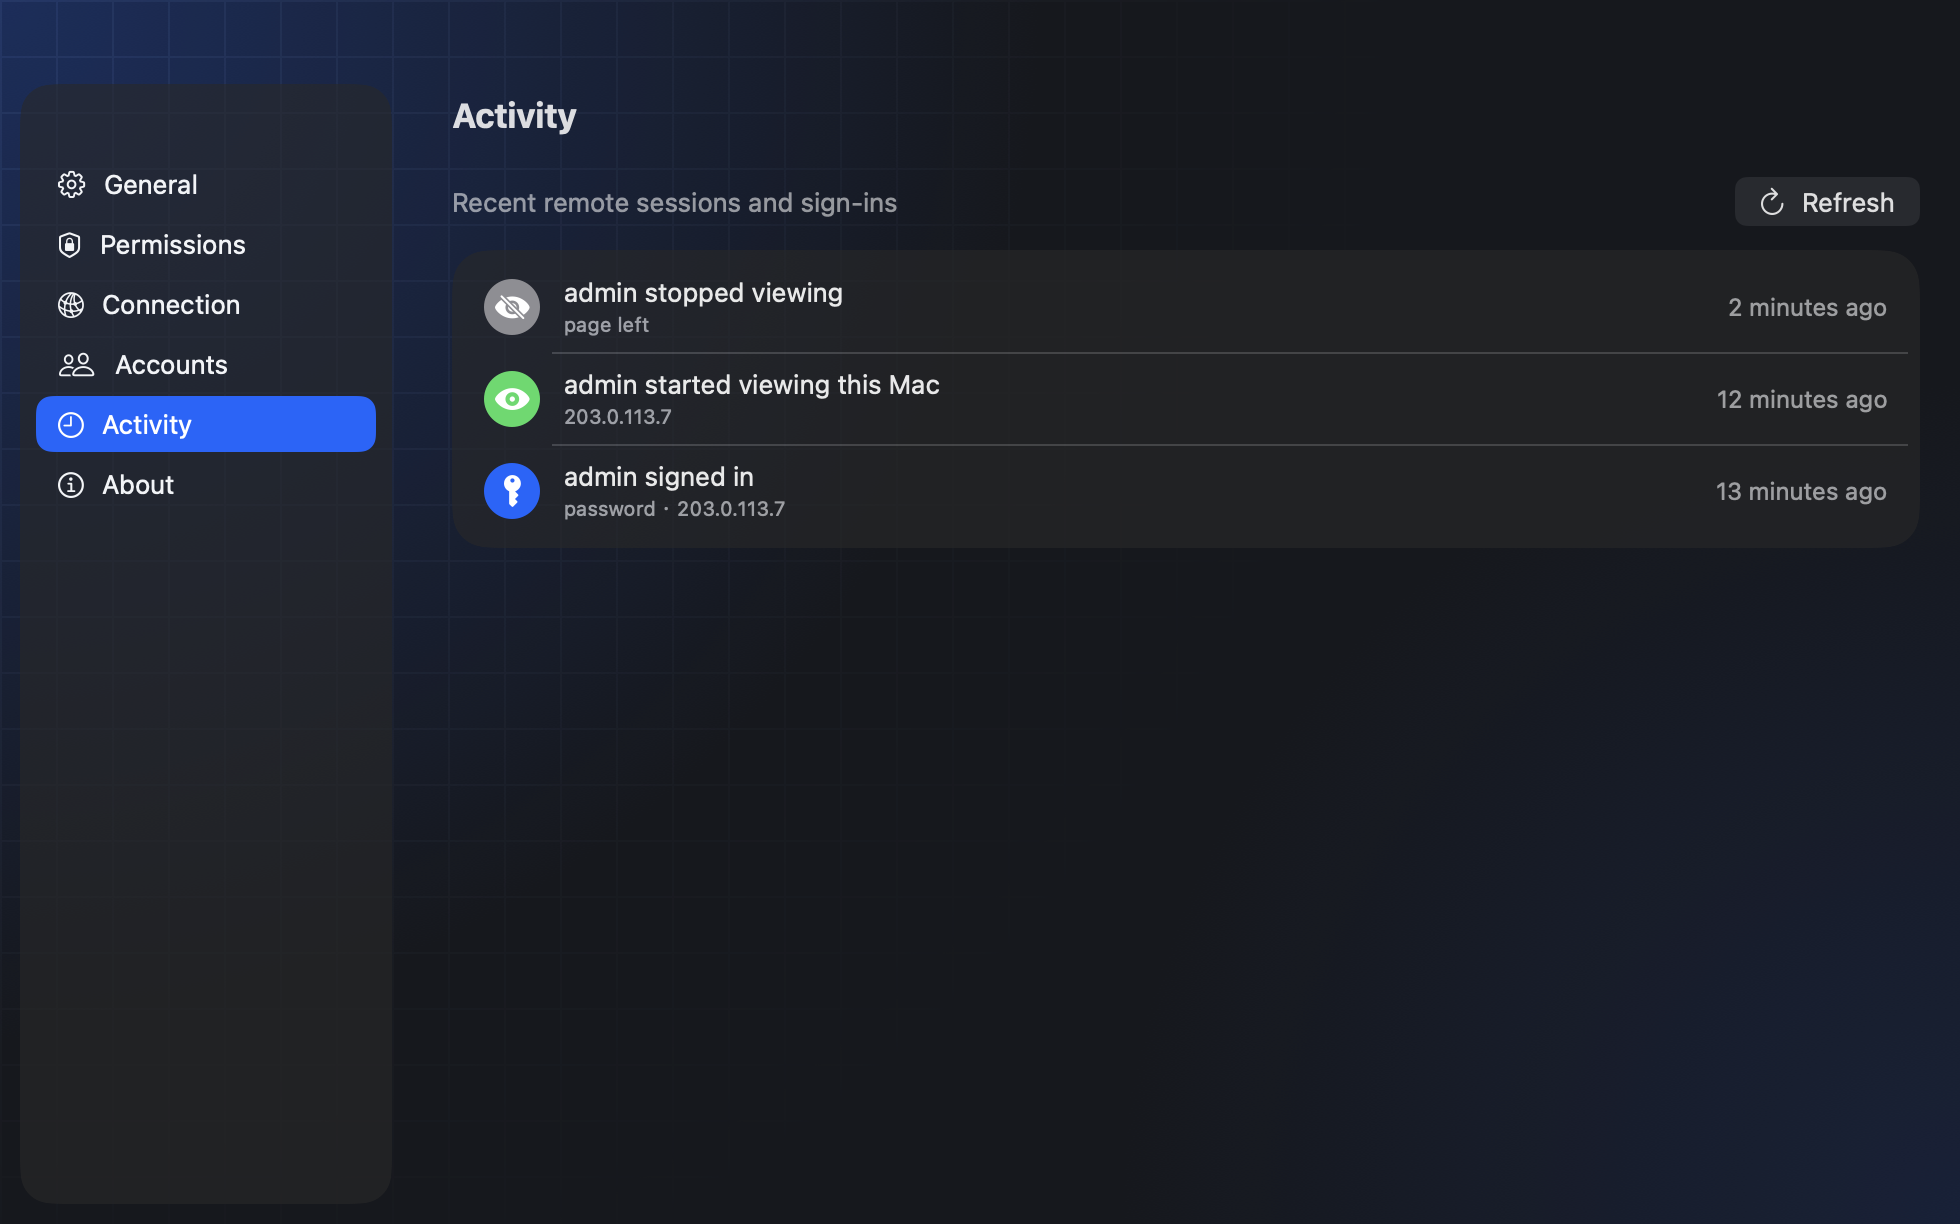
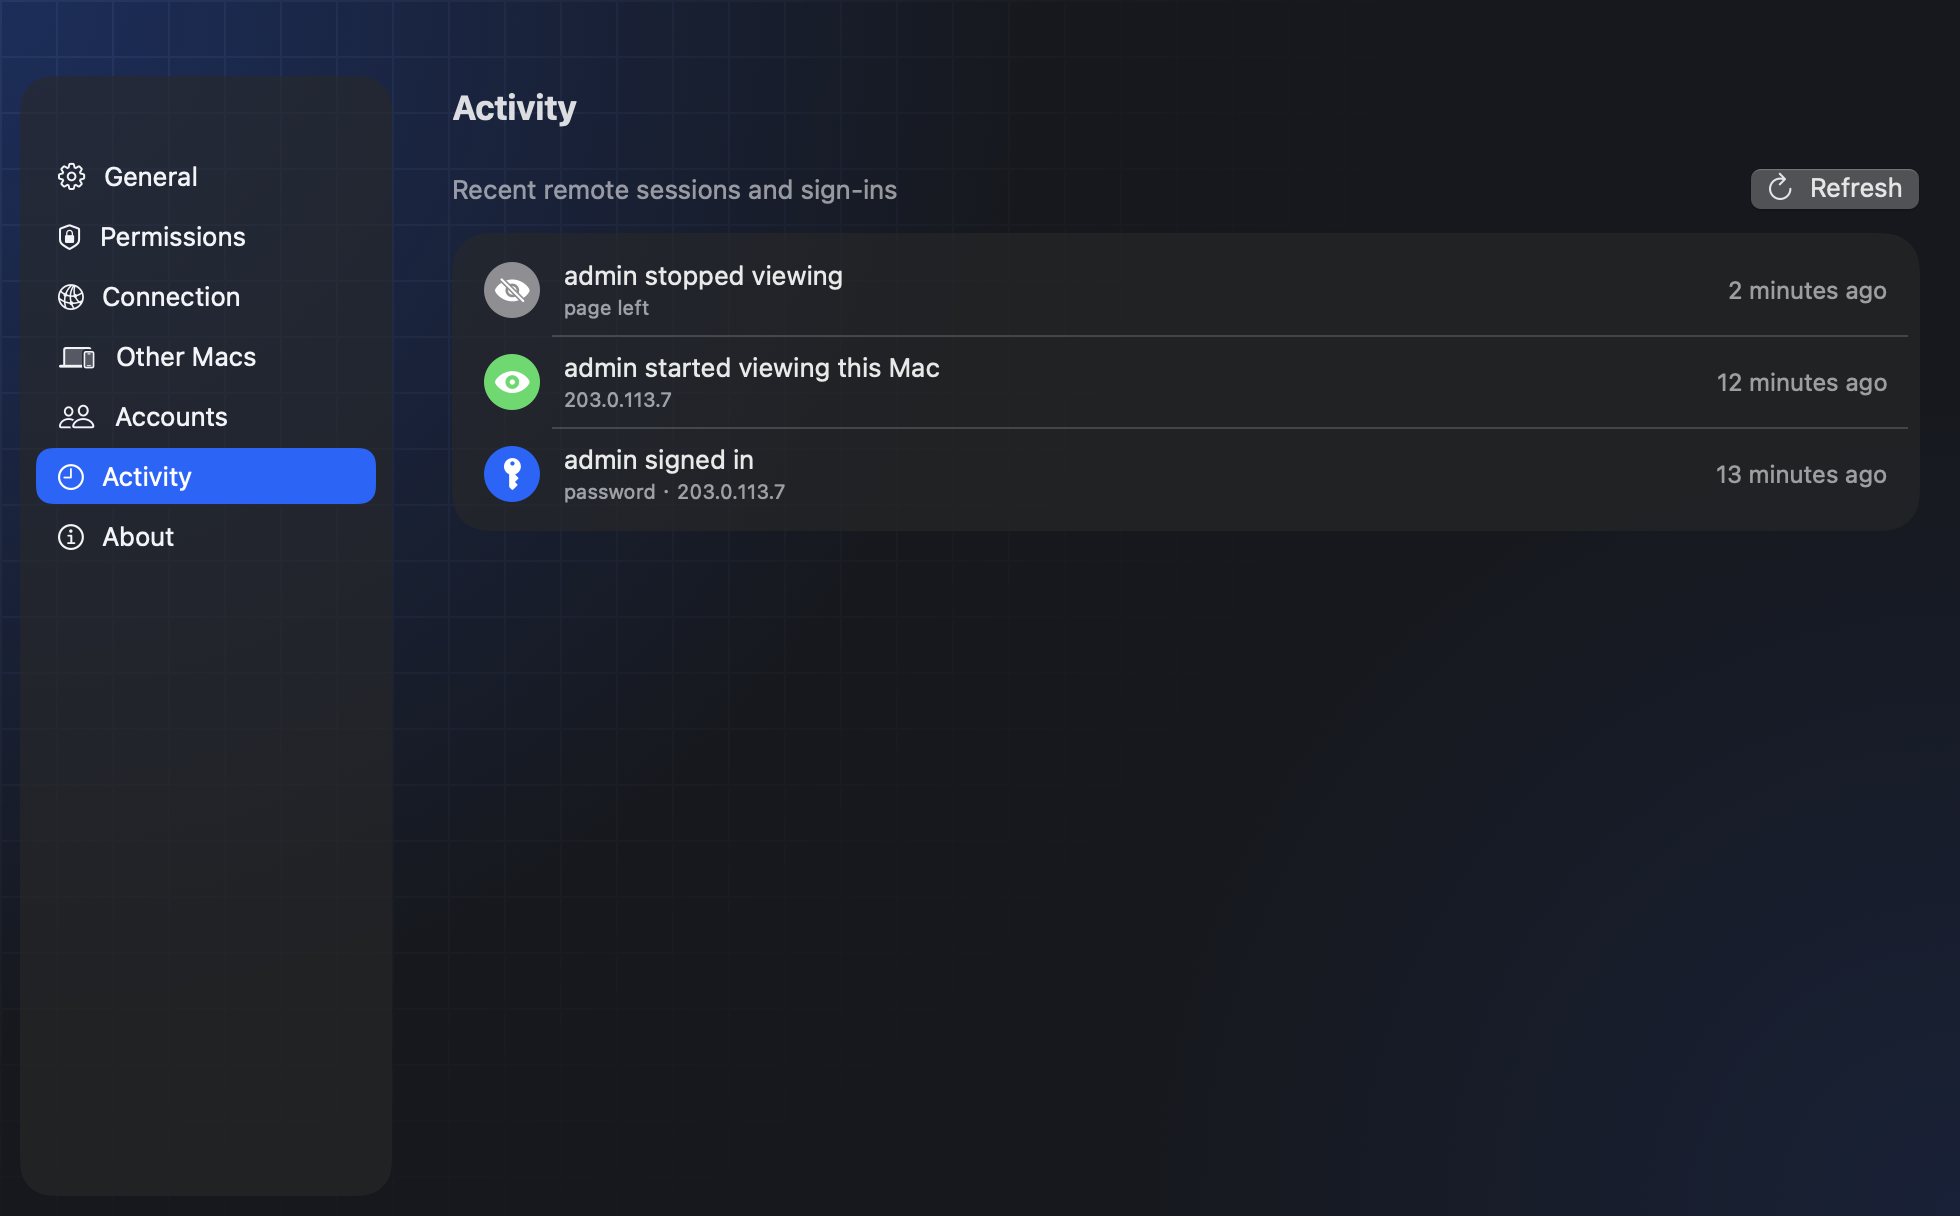
README and docs: the setup assistant's first step, several Macs and the key panel in the pictures (Remote with another Mac, the key panel, the assistant's first step), new snapshots of the rest: README.md, README.zh-TW.md, setup.md, development.md, shots.mjs, docs/assets

diff --git a/README.md b/README.md
@@ -71,9 +71,10 @@ back, with touch modes made for a small screen.
 ## What it looks like
 
 <p align="center">
-  <img src="docs/assets/shot-phone-remote.png" alt="The Remote tab on a phone: one tile for this Mac" width="240">
-  <img src="docs/assets/shot-phone-stage.png" alt="A phone showing the Mac's desktop, with the desktops and windows above and a row of keys below" width="240">
-  <img src="docs/assets/shot-phone-users.png" alt="Manage Users on a phone: an admin and a member" width="240">
+  <img src="docs/assets/shot-phone-remote.png" alt="The Remote tab on a phone: this Mac, another Mac that joined it, and Add another Mac" width="200">
+  <img src="docs/assets/shot-phone-stage.png" alt="A phone showing the Mac's desktop, with the desktops and windows above" width="200">
+  <img src="docs/assets/shot-phone-keys.png" alt="The key panel in the phone keyboard's place: copy, paste, undo, Spotlight, Mission Control and more" width="200">
+  <img src="docs/assets/shot-phone-users.png" alt="Manage Users on a phone: an admin and a member" width="200">
 </p>
 
 <p align="center"><img src="docs/assets/shot-desktop-stage.png" alt="Remote in a computer's browser: the desktops and windows across the top, the Mac's screen below" width="820"></p>
@@ -81,6 +82,7 @@ back, with touch modes made for a small screen.
 On the Mac, the setup assistant and Settings:
 
 <p align="center">
+  <picture><source media="(prefers-color-scheme: dark)" srcset="docs/assets/shot-mac-role-dark.png"><img src="docs/assets/shot-mac-role-light.png" alt="The setup assistant's first step: the Mac you connect to, or one to show in another Mac's Castpane" width="400"></picture>
   <picture><source media="(prefers-color-scheme: dark)" srcset="docs/assets/shot-mac-setup-dark.png"><img src="docs/assets/shot-mac-setup-light.png" alt="The setup assistant's Connection step: the ways to connect, with the quick tunnel's address and QR code beside them" width="400"></picture>
   <picture><source media="(prefers-color-scheme: dark)" srcset="docs/assets/shot-mac-activity-dark.png"><img src="docs/assets/shot-mac-activity-light.png" alt="Settings, Activity: who signed in and who viewed this Mac, and when" width="400"></picture>
 </p>
@@ -123,7 +125,7 @@ mac/build-app.sh         # mac/build/Castpane.app, with this Mac's Node, server/
 open mac/build/Castpane.app
 ```
 
-The setup assistant then:
+The setup assistant first asks what this Mac is for. For the Mac you connect to, it then:
 
 1. makes your admin account;
 2. asks for Screen Recording and Accessibility (Castpane offers to restart after the first);

diff --git a/docs/setup.md b/docs/setup.md
@@ -75,6 +75,15 @@ tunnel's credentials go with it.
 
 ## The setup assistant
 
+It first asks what this Mac is for:
+
+- **The Mac I connect to:** the steps below.
+- **Show it in another Mac's Castpane:** no account or address. Permissions (as in step 2),
+  then the other Mac's address and a code from its Remote page (**Add another Mac**); see
+  [multi-mac.md](multi-mac.md).
+
+For the Mac you connect to:
+
 1. **Admin account.** The name and password you will sign in with. Use a long password; you
    can add a passkey and two-step sign-in later, in Settings on the web app.
 2. **Permissions.** Castpane needs two, both in **System Settings › Privacy & Security**:
@@ -91,9 +100,9 @@ tunnel's credentials go with it.
 
 ### Permissions and signing
 
-From v0.1.2, releases are signed with the project's own certificate (not an Apple Developer
+Releases after 0.1.0 are signed with the project's own certificate (not an Apple Developer
 ID, and not notarized). macOS ties the permissions to that certificate, so **they stay across
-updates**. Moving from an earlier release (signed ad hoc) or from a build of your own asks for
+updates**. Moving from 0.1.0 (signed ad hoc) or from a build of your own asks for
 Screen Recording and Accessibility once more. If Remote says Castpane has no permission
 although the switches look on, remove Castpane from both lists with the minus button and add
 it again. Login Items may list Castpane as from an unidentified developer.

diff --git a/docs/development.md b/docs/development.md
@@ -89,10 +89,10 @@ node tools/icons.mjs   # web/public/castpane-*.png and mac/Resources (app and me
 
 The web app's screenshots are fixtures only: the "Mac screen" in them is drawn by
 `tools/shots.mjs`. The Mac app's (`docs/assets/shot-mac-*.png`) are the setup assistant's
-Connection step and Settings › Activity, taken from a debug build's snapshots (see Packaging),
-which use a made-up address and sample entries: copy `dark-wizard-2.png`,
-`light-wizard-2.png`, `dark-settings-activity.png` and `light-settings-activity.png` to
-`shot-mac-setup-{dark,light}.png` and `shot-mac-activity-{dark,light}.png`.
+first step and Connection step and Settings › Activity, taken from a debug build's snapshots
+(see Packaging), which use a made-up address and sample entries: copy `{dark,light}-wizard-0.png`,
+`{dark,light}-wizard-3.png` and `{dark,light}-settings-activity.png` to
+`shot-mac-role-*.png`, `shot-mac-setup-*.png` and `shot-mac-activity-*.png`.
 
 ## Builds for checking
 
